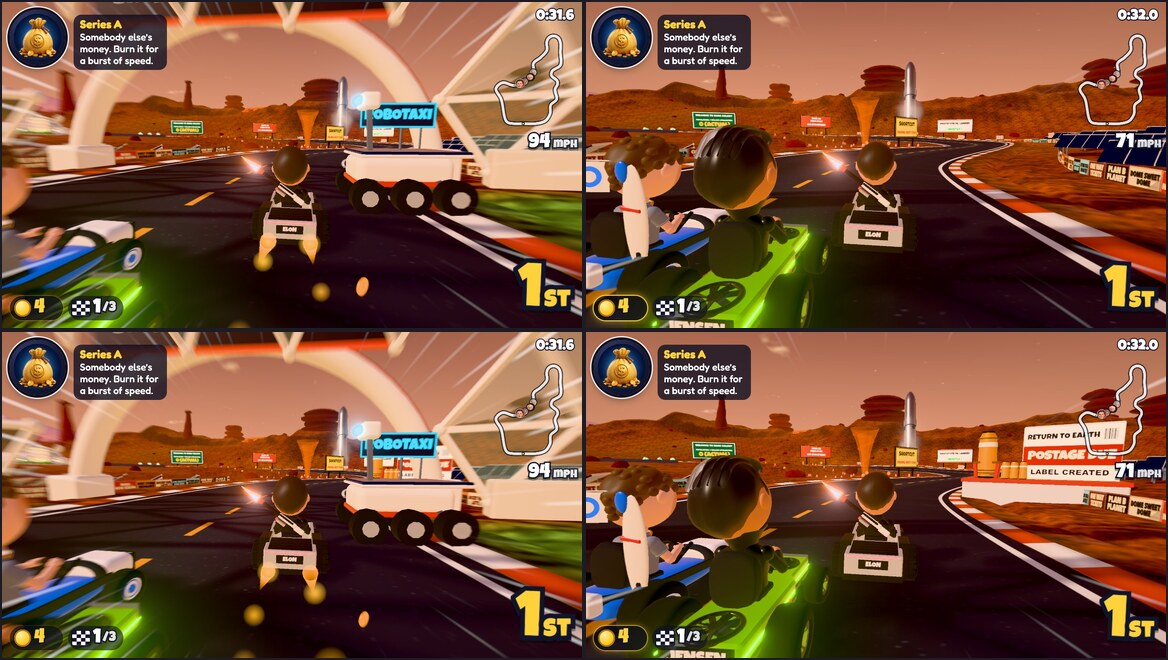
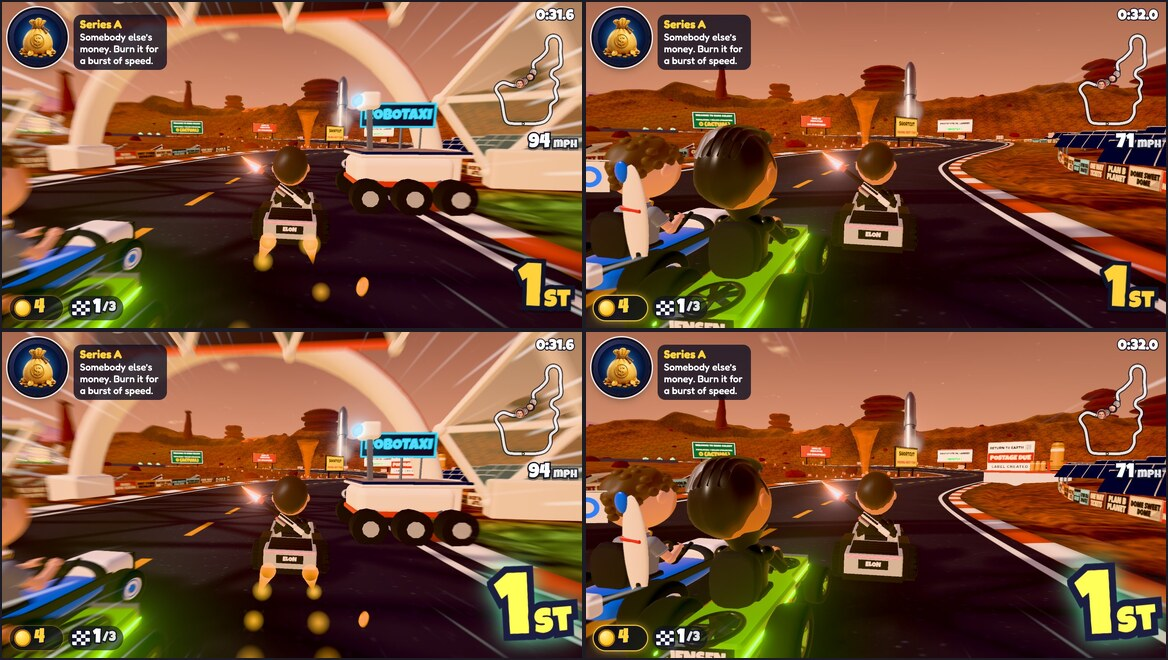
Show the entire parcel label through the airlock on tablet (#302)

diff --git a/src/models/props-mars-colony.js b/src/models/props-mars-colony.js
@@ -37,18 +37,18 @@ export function sampleDepot() {
       ['dark', 4.87, 0.2, 0.62, 0.62],
     ]) b.add(mat, cyl(top * scale, bottom * scale, h * scale, 16), { p: [x, foot + y * scale, z] });
   };
-  tube(-4.5, 0, 1);
+  tube(4.5, 0, 1);
   // The machined rings and two clamp jaws distinguish a sealed metal sample from a bottle.
   for (const y of [2.57, 2.85, 6.2]) {
-    b.add('brass', cyl(1.03, 1.03, 0.13, 20), { p: [-4.5, y, 0] });
+    b.add('brass', cyl(1.03, 1.03, 0.13, 20), { p: [4.5, y, 0] });
   }
   for (const side of [-1, 1]) {
-    b.add('rust', box(0.41, 1.78, 1.35, 0.1), { p: [-4.5 + side * 1.08, 2.88, 0], r: [0, 0, side * -0.12] });
-    b.add('brass', box(0.78, 0.23, 1.5), { p: [-4.5 + side * 0.95, 3.70, 0] });
+    b.add('rust', box(0.41, 1.78, 1.35, 0.1), { p: [4.5 + side * 1.08, 2.88, 0], r: [0, 0, side * -0.12] });
+    b.add('brass', box(0.78, 0.23, 1.5), { p: [4.5 + side * 0.95, 3.70, 0] });
   }
-  for (let row = 0; row < 3; row++) for (let col = 0; col < 3; col++) tube(-2.65 + col * 0.81, -0.86 + row * 0.84, 0.36);
+  for (let row = 0; row < 3; row++) for (let col = 0; col < 3; col++) tube(2.65 - col * 0.81, -0.86 + row * 0.84, 0.36);
   // A parcel tag displayed beside the ten tubes.
-  b.add('white', box(7.5, 5.3, 0.4, 0.15), { p: [2.55, 4.55, 0] });
+  b.add('white', box(7.5, 5.3, 0.4, 0.15), { p: [-2.55, 4.55, 0] });
   return b.build({ gold: paint(0xffc040, { metal: 0.62, rough: 0.3 }), dark: MAT.dark, brass: plastic(0x916c31, 0.38, 0.58), base: PANEL, white: WHITE, rust: RUST });
 }
 

diff --git a/src/tracks/mars-colony.js b/src/tracks/mars-colony.js
@@ -264,13 +264,13 @@ function dress(ctx) {
   };
   const RUST_HEX = '#c1440e', INK = '#1f1418', CREAM = '#f2efe6';
   // The samples made it to the depot. The shipping label is still waiting for a ride home.
-  const pickup = sc.beside(23.1, -1, 8);
+  const pickup = sc.beside(23.45, -1, 5.8);
   const approach = track.indexAtCp(22.58);
   const depot = M.sampleDepot();
   const depotYaw = Math.atan2(track.px[approach] - pickup.x, track.pz[approach] - pickup.z);
   sc.place(depot, pickup.x, pickup.z, { y: pickup.y, yaw: depotYaw });
   depot.updateMatrixWorld(true);
-  const tagCenter = depot.localToWorld(new THREE.Vector3(2.55, 4.55, 0.22)).toArray();
+  const tagCenter = depot.localToWorld(new THREE.Vector3(-2.55, 4.55, 0.22)).toArray();
   bake.add(depot); take(pickup.x, pickup.z, 7.5);
   const postage = ['LABEL CREATED', 'AWAITING PICKUP', 'STILL AWAITING PICKUP'];
   let pickupStamp = 0;
